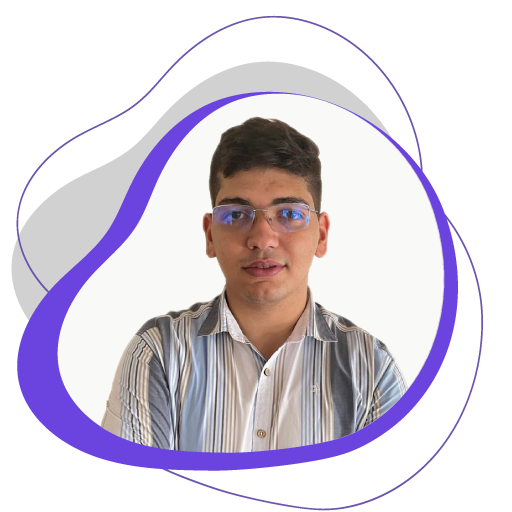
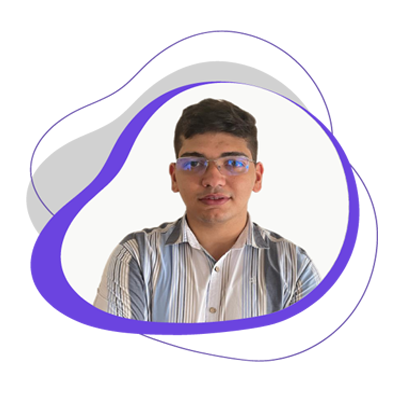
modification

diff --git a/public/css/contact.css b/public/css/contact.css
@@ -1074,7 +1074,7 @@ header .circle {
 .contact:before {
     top: 0;
     height: 40%;
-    background: url("../img/map.png") center center / cover;
+    background: url("../img/contact.png") center center / cover;
 }
 
 .contact:after {

diff --git a/src/Controller/Admin/SERVICECrudController.php b/src/Controller/Admin/SERVICECrudController.php
@@ -39,7 +39,7 @@ class SERVICECrudController extends AbstractCrudController
                 )
                 ->setFormType(VichImageType::class),
 
-            TextField::new('context'),
+            TextareaField::new('context'),
             DateField::new('updatedAt'),
         ];
     }
